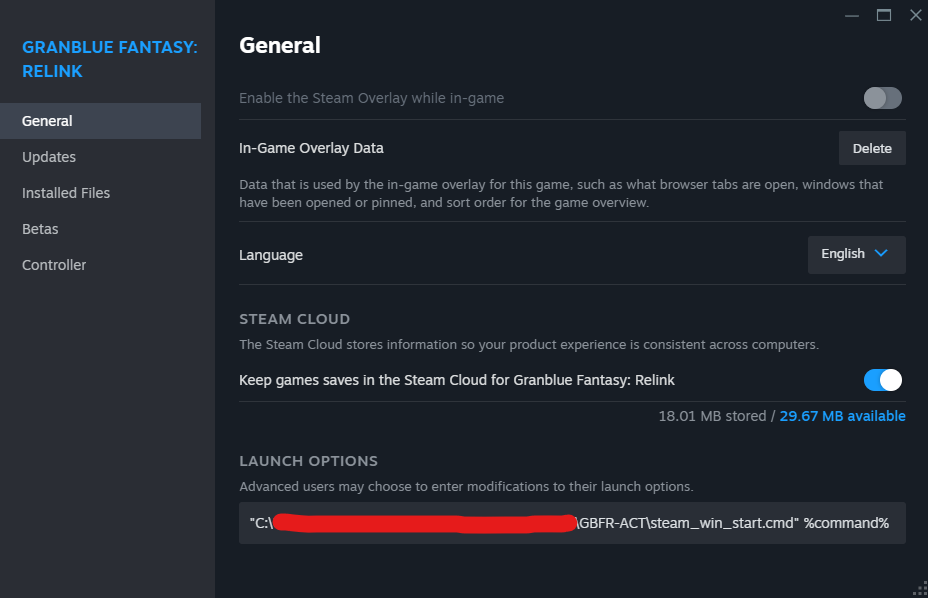
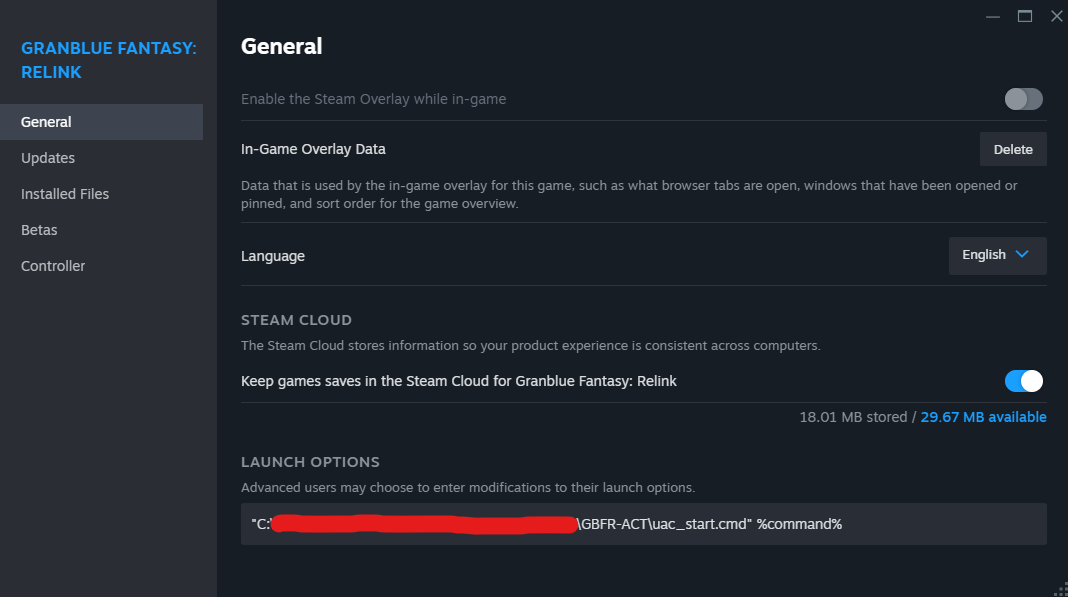
feat: merge all to uac_start.cmd

diff --git a/readme.md b/readme.md
@@ -63,5 +63,5 @@
       - Either via steam or other method
 
 2. Linked Launch (Preferable, only for windows)
-    - Set Steam launch option as follows `"C:\<Path-To-GBFR-ACT>\steam_win_start.cmd" %command%`, ![img](./img/steam_launch.png)
+    - Set Steam launch option as follows `"C:\<Path-To-GBFR-ACT>\uac_start.cmd" %command%`, ![img](./img/steam_launch.png)
     - Launch GBFR from steam and it will automatically launch everything.
